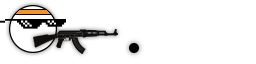
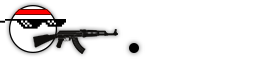
updatess

Changed region(s): [[0.0312, 0.125, 0.2188, 0.25]]

diff --git a/core/src/com/nahroto/fruitdestroyer/screens/LoadingScreen.java b/core/src/com/nahroto/fruitdestroyer/screens/LoadingScreen.java
@@ -24,10 +24,10 @@ public class LoadingScreen implements Screen
         APP.assets.load("atlases/objects.pack", TextureAtlas.class);
 
         // LOAD BACKGROUND TEXTURES
-        APP.assets.load("images/backgrounds/red.png", Texture.class);
-        APP.assets.load("images/backgrounds/yellow.png", Texture.class);
-        APP.assets.load("images/backgrounds/blue.png", Texture.class);
-        APP.assets.load("images/backgrounds/green.png", Texture.class);
+        APP.assets.load("backgrounds/red.png", Texture.class);
+        APP.assets.load("backgrounds/yellow.png", Texture.class);
+        APP.assets.load("backgrounds/blue.png", Texture.class);
+        APP.assets.load("backgrounds/green.png", Texture.class);
 
         // LOAD SOUNDS
         APP.assets.load("sounds/shot.wav", Sound.class);

diff --git a/core/src/com/nahroto/fruitdestroyer/screens/LoadingScreen2.java b/core/src/com/nahroto/fruitdestroyer/screens/LoadingScreen2.java
@@ -44,7 +44,7 @@ public class LoadingScreen2 implements Screen
         APP.camera.update();
 
         objectsAtlas = APP.assets.get("atlases/objects.pack", TextureAtlas.class);
-        bg = APP.assets.get("images/backgrounds/yellow.png", Texture.class);
+        bg = APP.assets.get("backgrounds/gray.png", Texture.class);
         player = new Player(objectsAtlas.createSprite("player"), APP);
         for (int i = 0; i < Bullet.COUNT; i++)
         {
